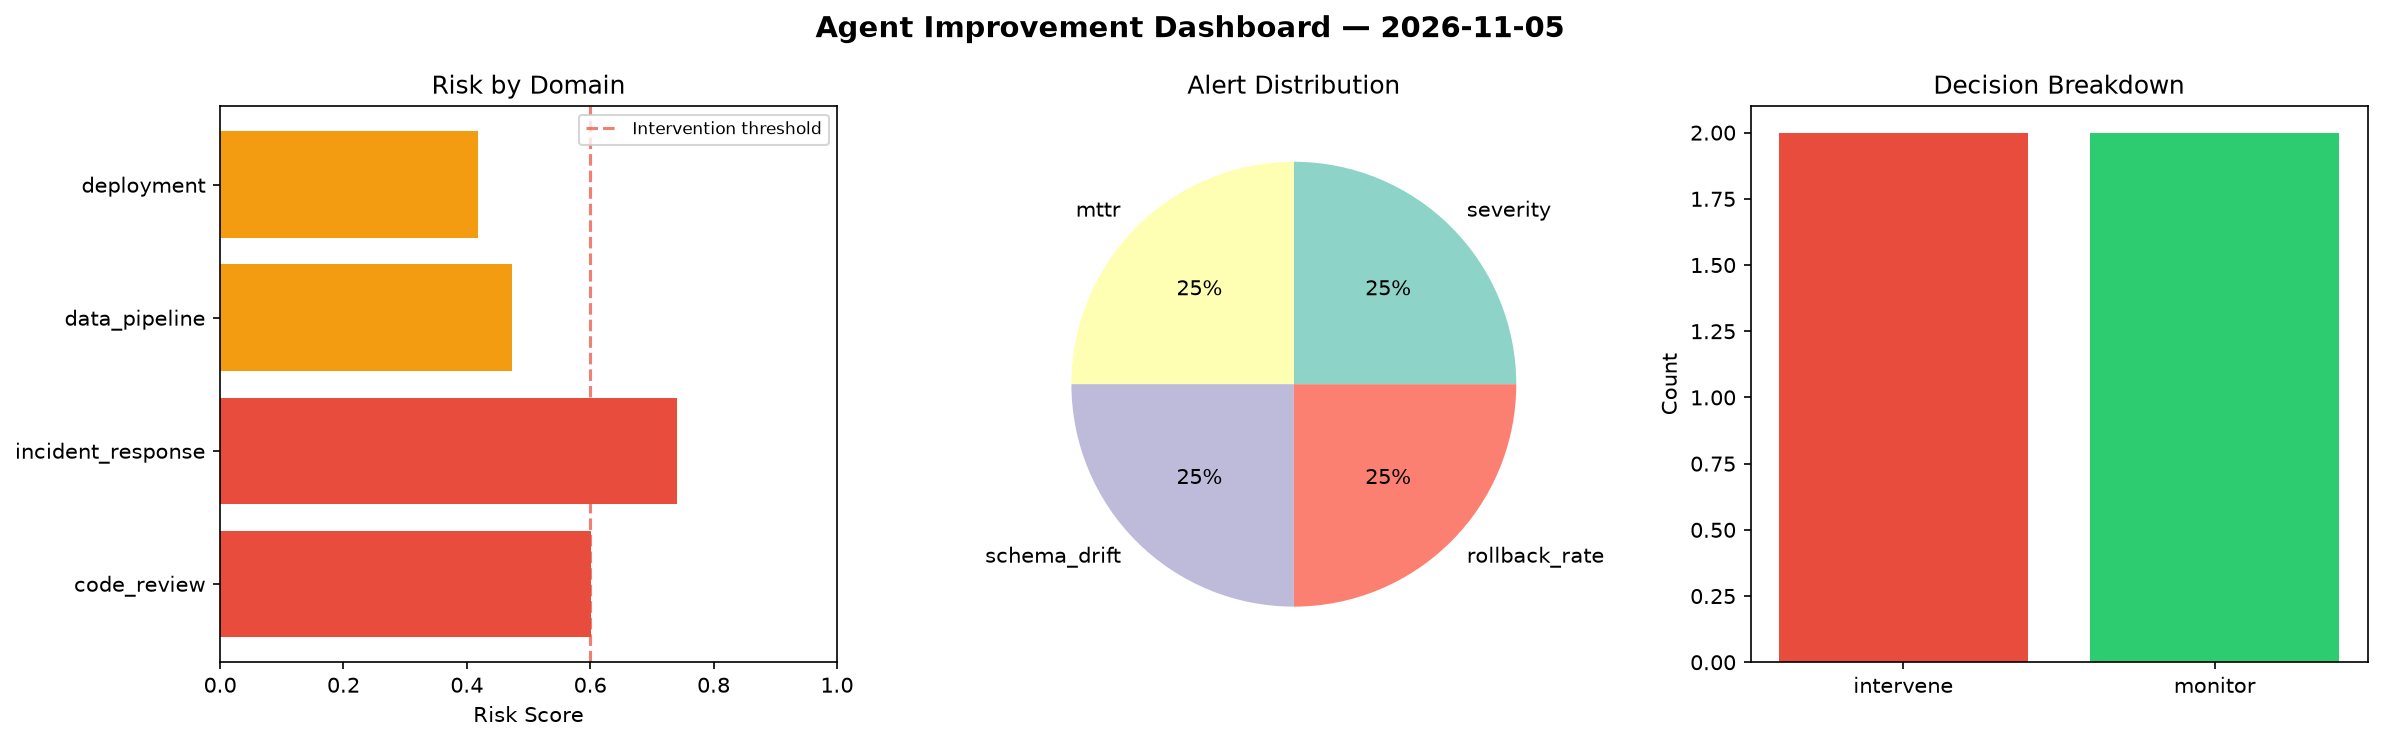
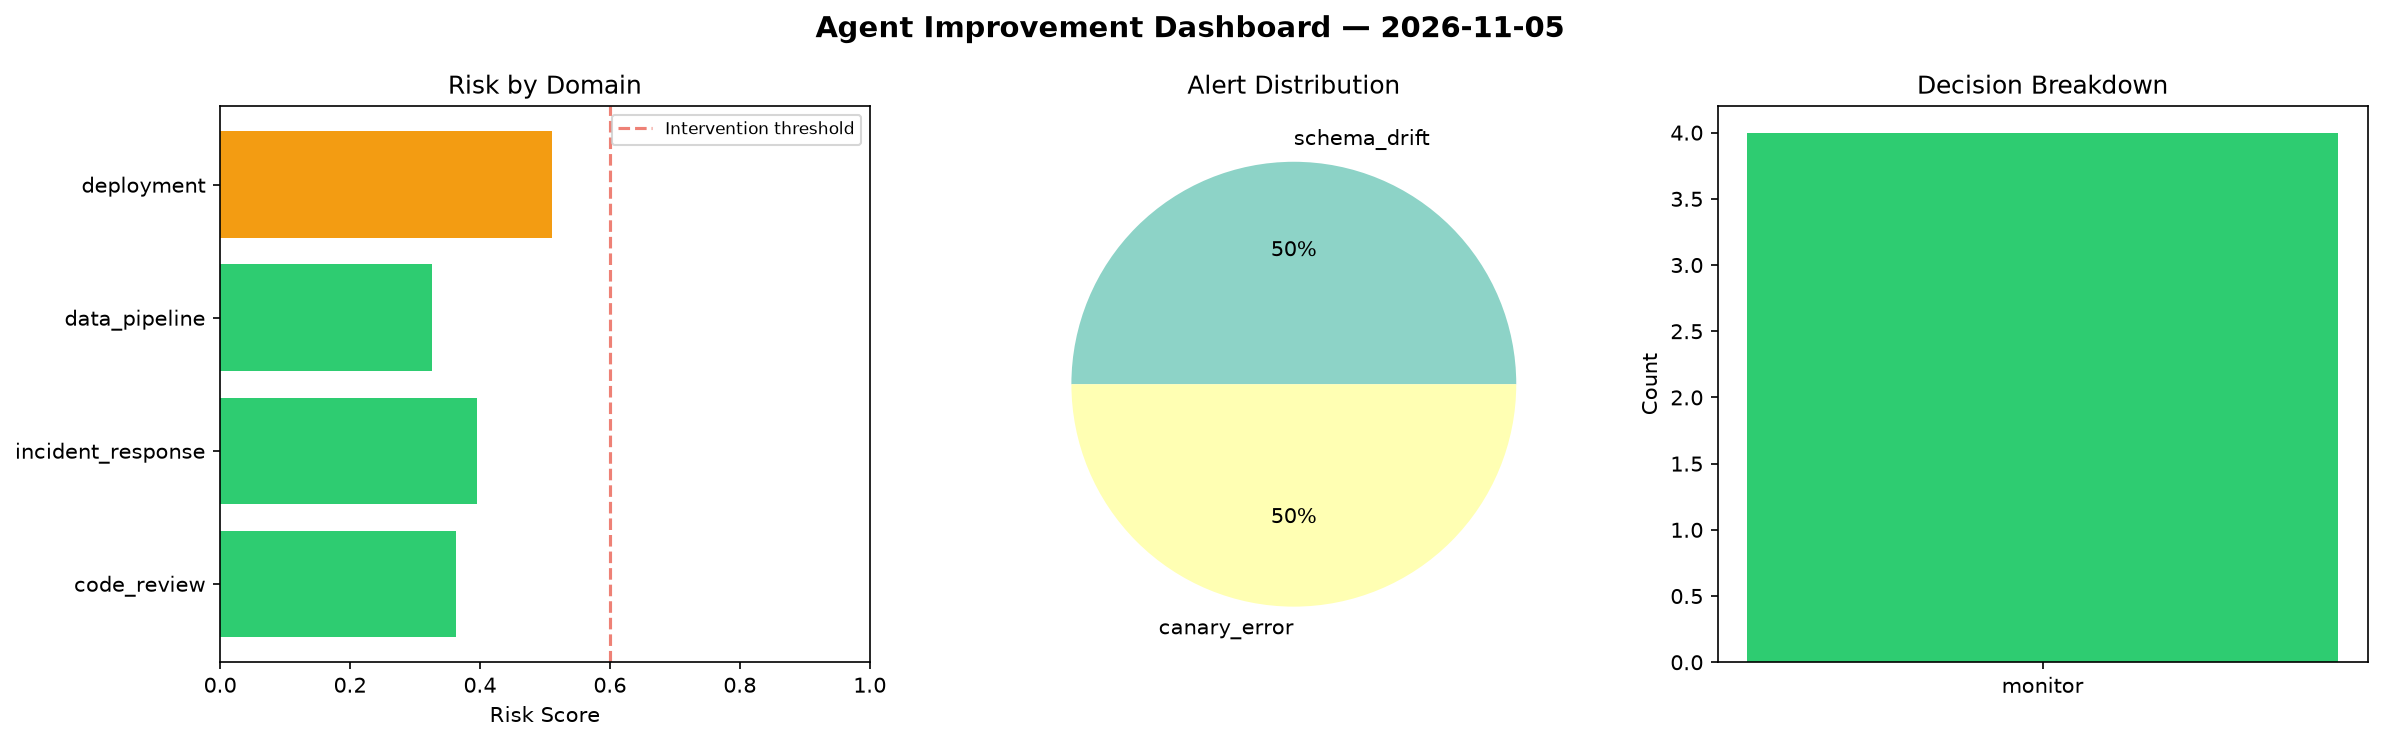
agent-improvement: daily cycle 2026-11-05T21:05

diff --git a/logs/2026-11-05.md b/logs/2026-11-05.md
@@ -1,6 +1,6 @@
 # Agent Improvement Report — 2026-11-05
 
-**Cycle ID:** `53a9f609` | **Avg Risk:** 0.5581 | **Interventions:** 2/4
+**Cycle ID:** `52198249` | **Avg Risk:** 0.3989 | **Interventions:** 0/4
 
 ![Dashboard](2026-11-05_dashboard.png)
 
@@ -10,18 +10,18 @@
 
 | Domain | Risk Score | Decision | Alerts |
 |--------|-----------|----------|--------|
-| code_review | 0.6008 | intervene | none |
-| incident_response | 0.7407 | intervene | severity, mttr |
-| data_pipeline | 0.4729 | monitor | schema_drift |
-| deployment | 0.4178 | monitor | rollback_rate |
+| code_review | 0.3634 | monitor | none |
+| incident_response | 0.3956 | monitor | none |
+| data_pipeline | 0.3264 | monitor | schema_drift |
+| deployment | 0.5102 | monitor | canary_error |
 
 ## Delta vs Yesterday
 
 | Domain | Today | Yesterday | Change |
 |--------|-------|-----------|--------|
-| code_review | 0.6008 | 0.3962 | 📈 51.6% |
-| incident_response | 0.7407 | 0.5492 | 📈 34.9% |
-| data_pipeline | 0.4729 | 0.4948 | 📉 -4.4% |
-| deployment | 0.4178 | 0.3001 | 📈 39.2% |
+| code_review | 0.3634 | 0.3962 | 📉 -8.3% |
+| incident_response | 0.3956 | 0.5492 | 📉 -28.0% |
+| data_pipeline | 0.3264 | 0.4948 | 📉 -34.0% |
+| deployment | 0.5102 | 0.3001 | 📈 70.0% |
 
-**Refinement:** `{'adjustment': 'maintain', 'trend': 'improving', 'window': 4}`
+**Refinement:** `{'adjustment': 'tighten_thresholds', 'trend': 'degrading', 'window': 4}`
